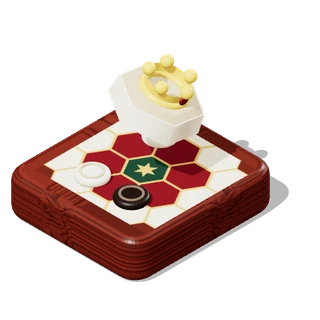
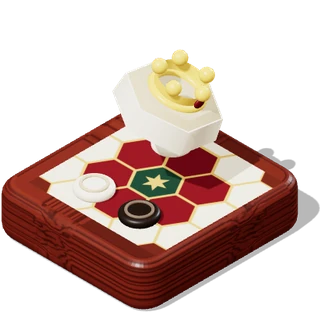
大百科：アゴンの3Dアイコンを規定の大きさ・位置に（横幅いっぱい、土台の角の高さをそろえる）
Claude-Session: https://claude.ai/code/session_01EiWRAWa6vaKbwqYxDBcZpP

diff --git a/atlas/app.js b/atlas/app.js
@@ -104,7 +104,7 @@
 
   /* ---------- common renderers ---------- */
   const R3 = new Set(['reversi', 'shogi', 'chess', 'gomoku', 'dots', 'connect4', 'mancala', 'backgammon', 'morris', 'sudoku', 'speedsudoku', 'checkers', 'samegame', 'go', 'hex', 'tafl', 'xiangqi', 'jailbreak', 'solitaire', 'poker', 'baccarat', 'blackjack', 'fanorona', 'alquerque', 'ur', 'ugolki', 'agon']);   // images/atlas/<id>.webp exists
-  const artSrc = g => R3.has(g.id) ? `../images/atlas/${g.id}.webp?v=${({ alquerque: 6, ugolki: 7, agon: 8 })[g.id] || 5}` : `../${g.icon}`;
+  const artSrc = g => R3.has(g.id) ? `../images/atlas/${g.id}.webp?v=${({ alquerque: 6, ugolki: 7, agon: 9 })[g.id] || 5}` : `../${g.icon}`;
   const artImg = (g, extra = '') => `<img src="${artSrc(g)}" alt="" loading="lazy" decoding="async"${R3.has(g.id) ? '' : ' class="flat"'}${extra}>`;
   const g3 = g => `<span class="g3" style="--c:${g.color}">${artImg(g)}</span>`;
   const gno = g => 'No.' + String(A_.GAMES.indexOf(g) + 1).padStart(2, '0');

diff --git a/atlas/index.html b/atlas/index.html
@@ -1070,6 +1070,6 @@ h2.h::before{content:'';width:10px;height:22px;border-radius:5px;background:var(
 <script src="../shared/resign.js?v=2"></script>
 <script src="../shared/tick.js?v=2"></script>
 <script src="gamelist.js?v=11"></script>
-<script src="app.js?v=150"></script>
+<script src="app.js?v=151"></script>
 </body>
 </html>
